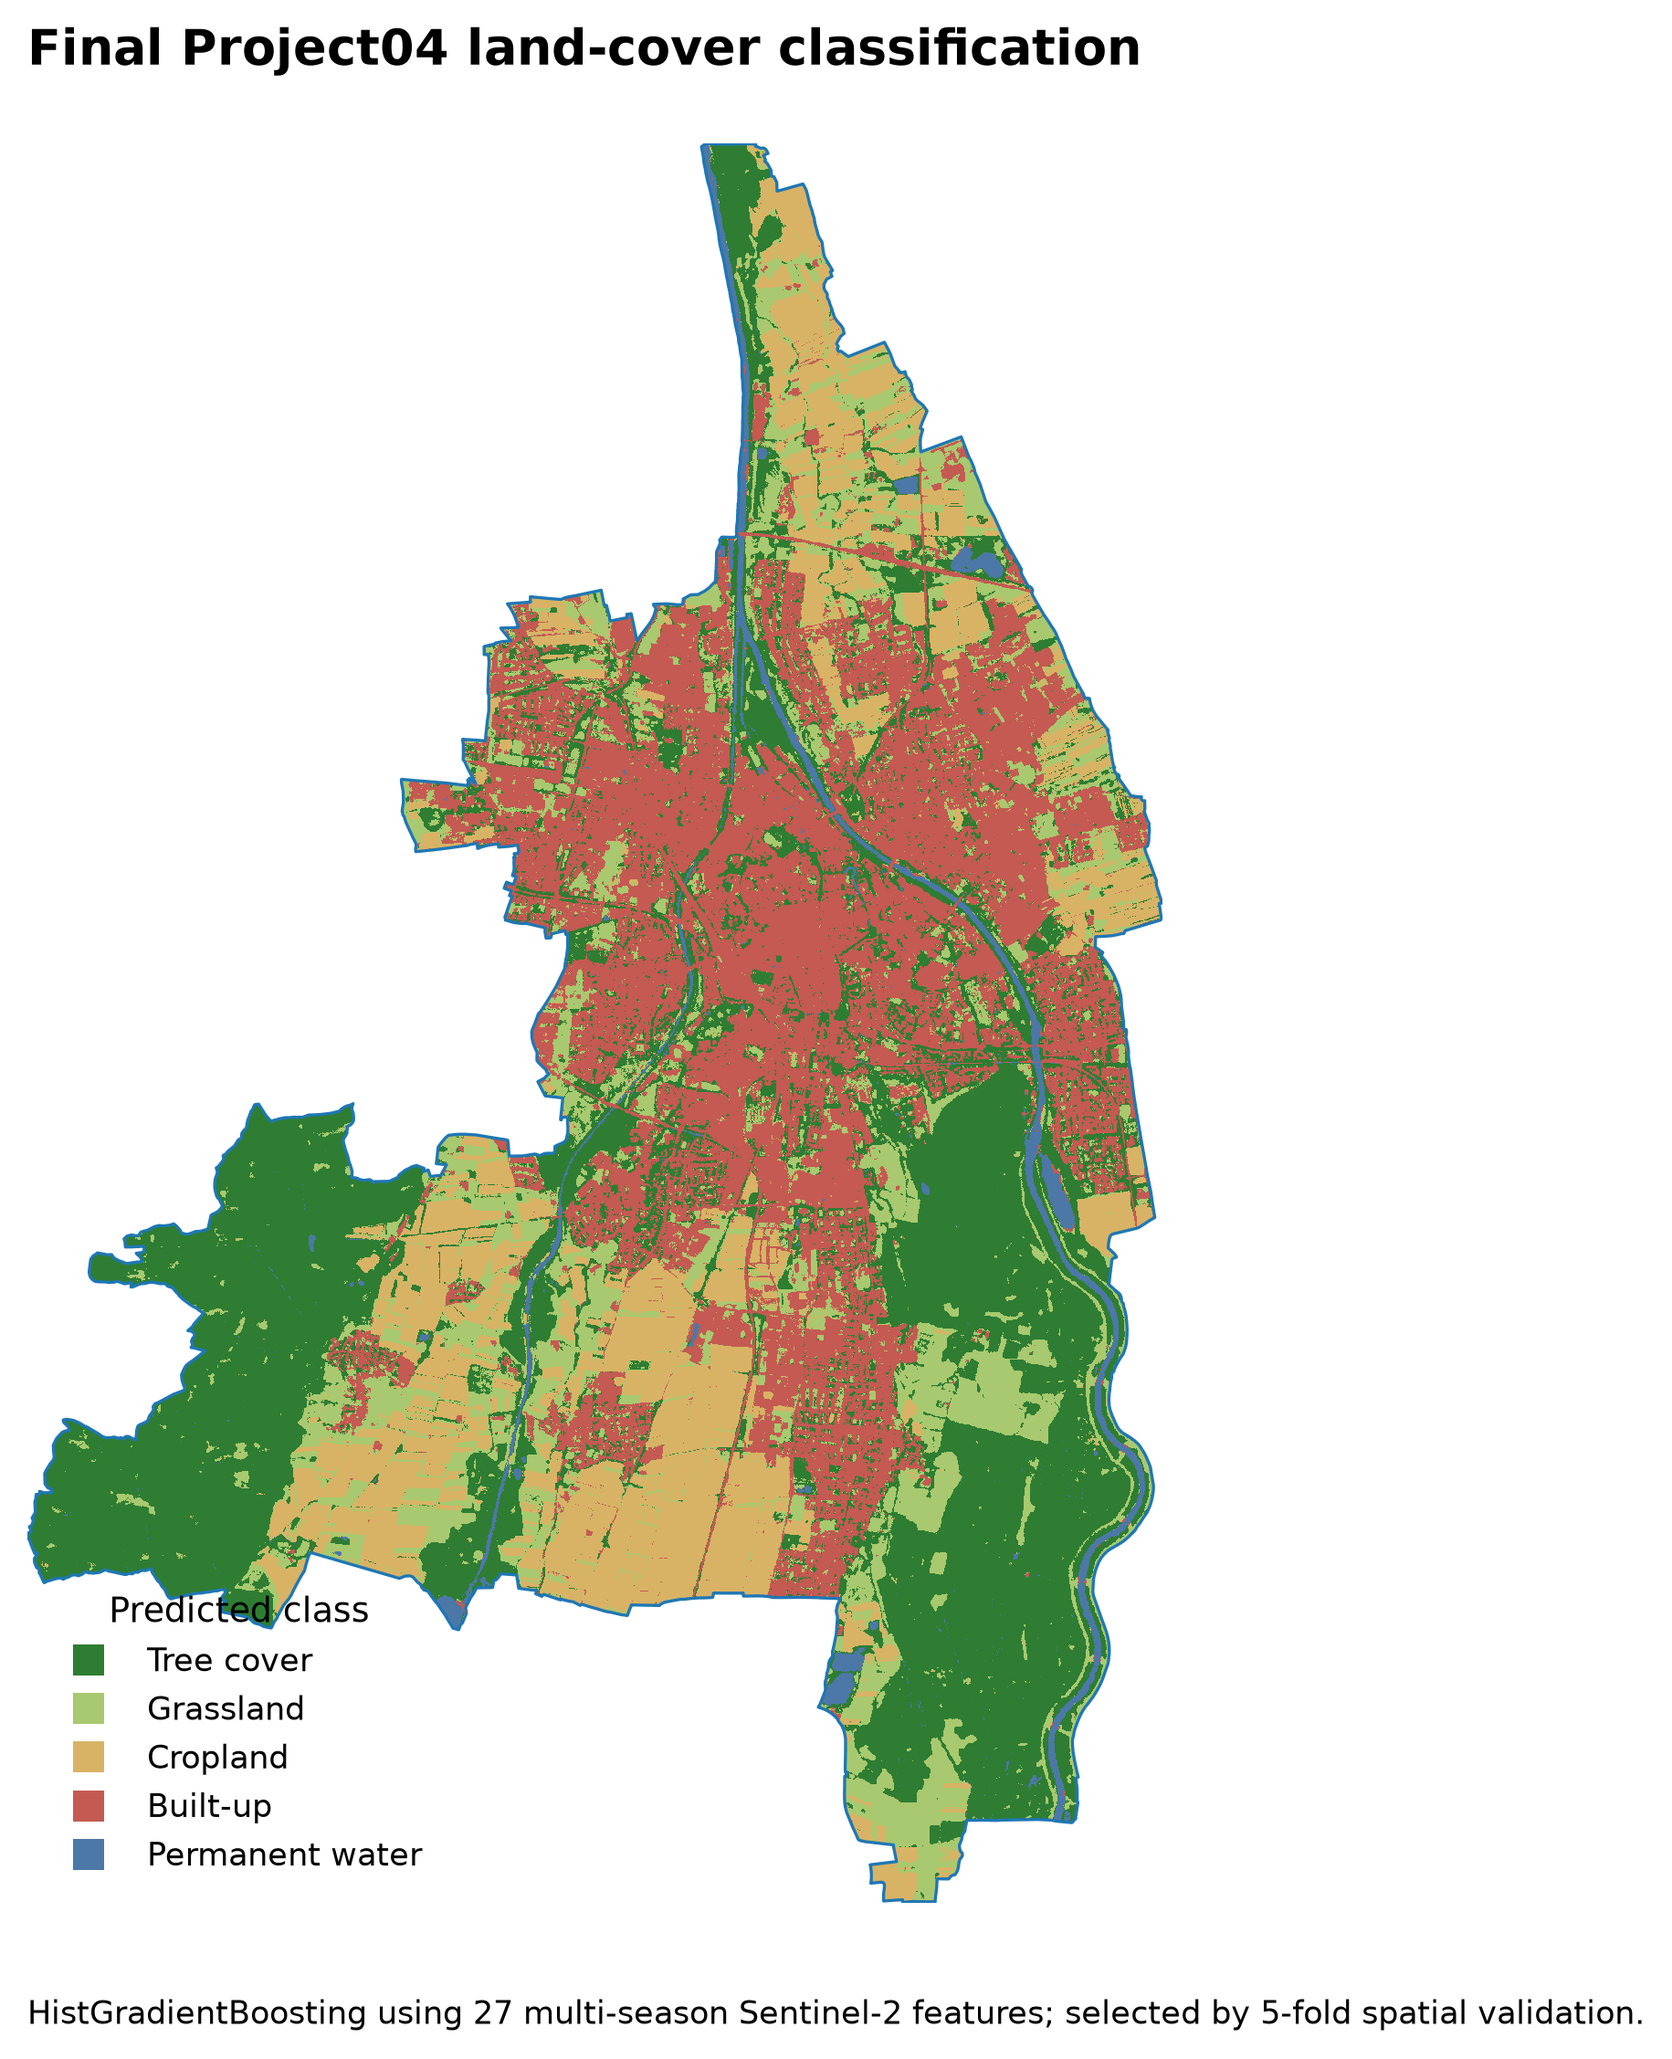
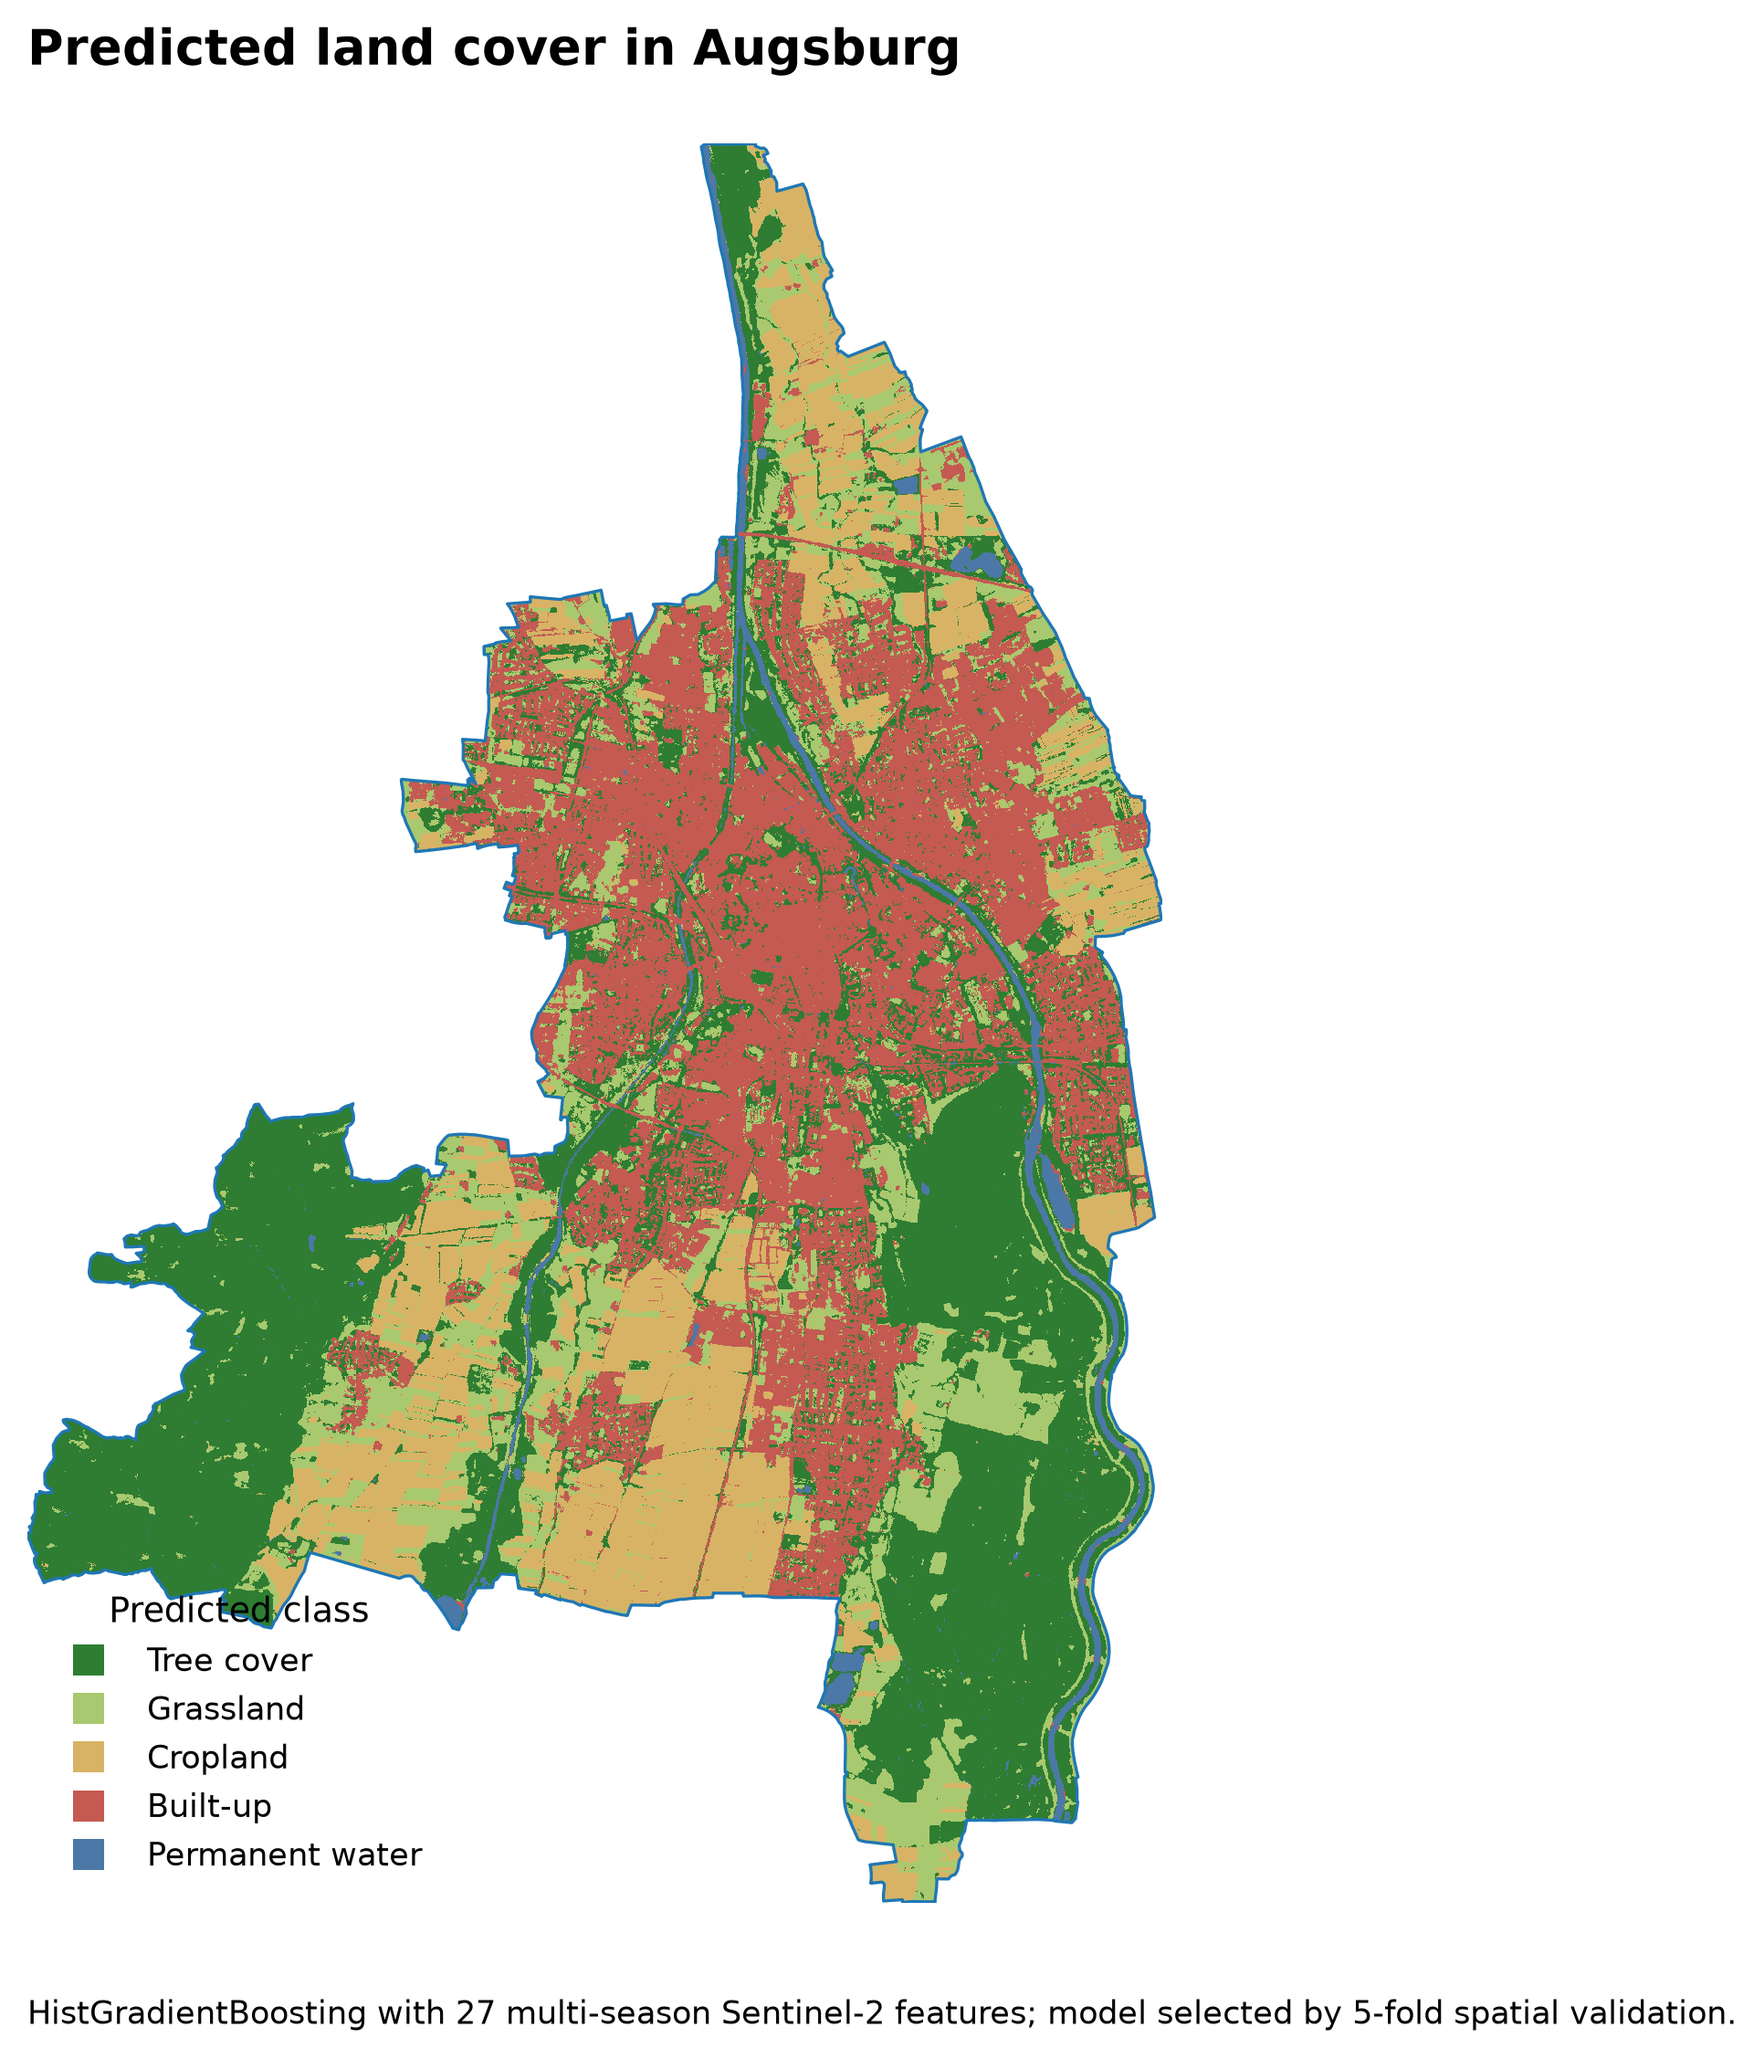
Finalize Project04 portfolio outputs

diff --git a/docs/index.html b/docs/index.html
@@ -3,15 +3,22 @@
 <head>
 <meta charset="utf-8" />
 <meta name="viewport" content="width=device-width, initial-scale=1.0" />
-<title>Project04 - Augsburg Sentinel-2 Land Cover</title>
+<title>Augsburg Sentinel-2 Land-Cover Classification</title>
 <link rel="stylesheet" href="https://unpkg.com/leaflet@1.9.4/dist/leaflet.css" />
 <style>
 html, body { height: 100%; margin: 0; font-family: Arial, sans-serif; }
 #map { height: 100%; }
-.info { background: rgba(255,255,255,0.94); padding: 10px 12px; line-height: 1.4; box-shadow: 0 1px 5px rgba(0,0,0,0.25); border-radius: 4px; max-width: 320px; }
+.info {
+  background: rgba(255,255,255,0.95);
+  padding: 10px 12px;
+  line-height: 1.4;
+  box-shadow: 0 1px 5px rgba(0,0,0,0.25);
+  border-radius: 4px;
+  max-width: 330px;
+}
 .legend { font-size: 13px; }
 .title { font-size: 15px; font-weight: 700; margin-bottom: 6px; }
-.note { font-size: 11px; color: #444; margin-top: 6px; }
+.note { font-size: 11px; color: #444; margin-top: 7px; }
 </style>
 </head>
 <body>
@@ -20,21 +27,117 @@ html, body { height: 100%; margin: 0; font-family: Arial, sans-serif; }
 <script>
 const map = L.map('map');
 const bounds = [[48.25742316927369, 10.761841304327003], [48.460537036205686, 10.962749139800268]];
-const osm = L.tileLayer('https://{s}.tile.openstreetmap.org/{z}/{x}/{y}.png', {maxZoom: 19, attribution: '&copy; OpenStreetMap contributors'}).addTo(map);
-const classification = L.imageOverlay('assets/classification_overlay.png', bounds, {opacity: 0.78}).addTo(map);
-const confidence = L.imageOverlay('assets/confidence_overlay.png', bounds, {opacity: 0.70});
-fetch('assets/augsburg_boundary.geojson').then(r => r.json()).then(data => {
-  const boundary = L.geoJSON(data, {style: {color: '#333333', weight: 1.5, fillOpacity: 0}}).addTo(map);
-  L.control.layers({'OpenStreetMap': osm}, {'Land-cover classification': classification, 'Model confidence': confidence, 'Augsburg boundary': boundary}, {collapsed: false}).addTo(map);
-});
+
+const osm = L.tileLayer(
+  'https://{s}.tile.openstreetmap.org/{z}/{x}/{y}.png',
+  {
+    maxZoom: 19,
+    attribution: '&copy; OpenStreetMap contributors'
+  }
+).addTo(map);
+
+const classification = L.imageOverlay(
+  'assets/classification_overlay.png',
+  bounds,
+  {opacity: 0.88}
+).addTo(map);
+
+const confidence = L.imageOverlay(
+  'assets/confidence_overlay.png',
+  bounds,
+  {opacity: 0.82}
+);
+
 map.fitBounds(bounds);
+
 const info = L.control({position: 'bottomleft'});
 info.onAdd = function() {
-  const div = L.DomUtil.create('div', 'info legend');
-  div.innerHTML = `<div class="title">Project04 - Augsburg land cover</div><div><span style="display:inline-block;width:12px;height:12px;background:#2E7D32;margin-right:6px;"></span>Tree cover</div><div><span style="display:inline-block;width:12px;height:12px;background:#A8C96F;margin-right:6px;"></span>Grassland</div><div><span style="display:inline-block;width:12px;height:12px;background:#D8B365;margin-right:6px;"></span>Cropland</div><div><span style="display:inline-block;width:12px;height:12px;background:#C45A52;margin-right:6px;"></span>Built-up</div><div><span style="display:inline-block;width:12px;height:12px;background:#4C78A8;margin-right:6px;"></span>Permanent water</div><div class="note">Sentinel-2 2021 multi-season features; HistGradientBoosting selected by 5-fold spatial validation. Confidence is relative model confidence, not calibrated probability of correctness.</div>`;
-  return div;
+  this._div = L.DomUtil.create('div', 'info legend');
+  this.update('classification');
+  return this._div;
 };
+
+info.update = function(mode) {
+  if (mode === 'confidence') {
+    this._div.innerHTML = `
+      <div class="title">Relative model confidence</div>
+      
+      <div style="margin-top:7px;">
+        <div style="
+          width:210px;
+          height:12px;
+          border-radius:2px;
+          background:linear-gradient(
+            to right,
+            #440154 0%,
+            #3b528b 25%,
+            #21918c 50%,
+            #5ec962 75%,
+            #fde725 100%
+          );
+        "></div>
+        <div style="
+          width:210px;
+          display:flex;
+          justify-content:space-between;
+          font-size:11px;
+          margin-top:2px;
+        ">
+          <span>0.5</span><span>1.0</span>
+        </div>
+      </div>
+    
+      <div class="note">
+        Maximum HistGradientBoosting class probability.
+        Values are used as relative confidence and are not calibrated
+        probabilities of correctness.
+      </div>`;
+  } else {
+    this._div.innerHTML = `
+      <div class="title">Predicted land cover in Augsburg</div>
+      <div><span style="display:inline-block;width:12px;height:12px;background:#2E7D32;margin-right:6px;"></span>Tree cover</div><div><span style="display:inline-block;width:12px;height:12px;background:#A8C96F;margin-right:6px;"></span>Grassland</div><div><span style="display:inline-block;width:12px;height:12px;background:#D8B365;margin-right:6px;"></span>Cropland</div><div><span style="display:inline-block;width:12px;height:12px;background:#C45A52;margin-right:6px;"></span>Built-up</div><div><span style="display:inline-block;width:12px;height:12px;background:#4C78A8;margin-right:6px;"></span>Permanent water</div>
+      <div class="note">
+        Sentinel-2 2021 multi-season features; HistGradientBoosting
+        selected by 5-fold spatial validation.
+      </div>`;
+  }
+};
+
 info.addTo(map);
+
+fetch('assets/augsburg_boundary.geojson')
+  .then(r => r.json())
+  .then(data => {
+    const boundary = L.geoJSON(data, {
+      style: {
+        color: '#333333',
+        weight: 1.5,
+        fillOpacity: 0
+      }
+    }).addTo(map);
+
+    // The two analytical raster views are base layers so only one can
+    // be visible at a time. This avoids visually mixing class colours
+    // with the continuous confidence surface.
+    L.control.layers(
+      {
+        'Land-cover classification': classification,
+        'Relative model confidence': confidence
+      },
+      {
+        'Augsburg boundary': boundary
+      },
+      {collapsed: false}
+    ).addTo(map);
+
+    map.on('baselayerchange', function(e) {
+      if (e.layer === confidence) {
+        info.update('confidence');
+      } else {
+        info.update('classification');
+      }
+    });
+  });
 </script>
 </body>
 </html>

diff --git a/outputs/FINAL_REPORT.md b/outputs/FINAL_REPORT.md
@@ -1,6 +1,4 @@
-# Project04 Final Report
-
-## Project title
+# Augsburg Sentinel-2 Land-Cover Classification — Final Report
 
 **Augsburg Sentinel-2 Spatial Land-Cover Classification**
 
@@ -67,4 +65,4 @@ SWIR features remain dominant after moving from random to spatial validation. Sp
 
 ## Final interpretation
 
-Project04 shows that a relatively simple tree-based remote-sensing classifier can achieve stable spatial performance when the data pipeline is carefully controlled. The stronger methodological contribution is the explicit comparison of random and spatial validation, together with uncertainty and class-specific error analysis.
+This project shows that a relatively simple tree-based remote-sensing classifier can achieve stable spatial performance when the data pipeline is carefully controlled. The stronger methodological contribution is the explicit comparison of random and spatial validation, together with uncertainty and class-specific error analysis.

diff --git a/README.md b/README.md
@@ -58,7 +58,7 @@ After GitHub Pages is enabled from the `/docs` folder, the map provides:
 
 - OpenStreetMap basemap;
 - final classification;
-- model-confidence overlay;
+- relative model-confidence view;
 - Augsburg municipal boundary.
 
 ## Project status

diff --git a/PROJECT_STATUS.md b/PROJECT_STATUS.md
@@ -1,4 +1,4 @@
-# Project04 Status
+# Project Status
 
 ## Final status
 
